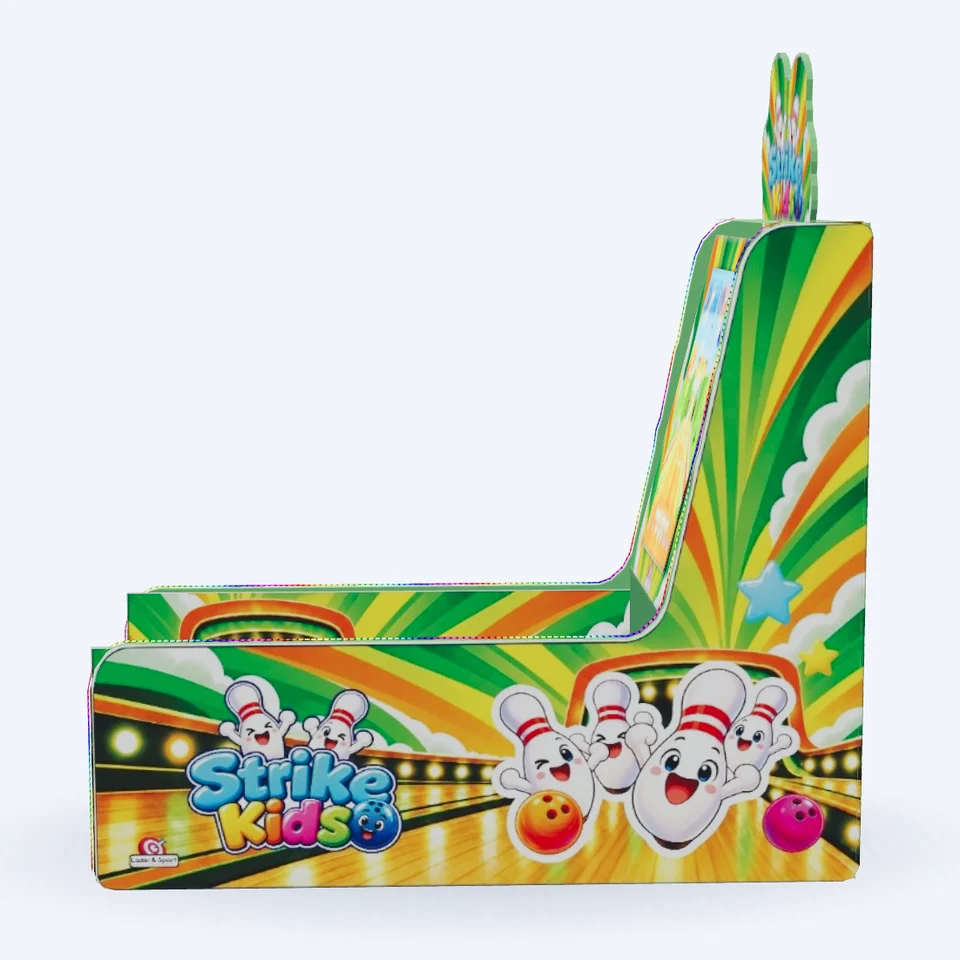
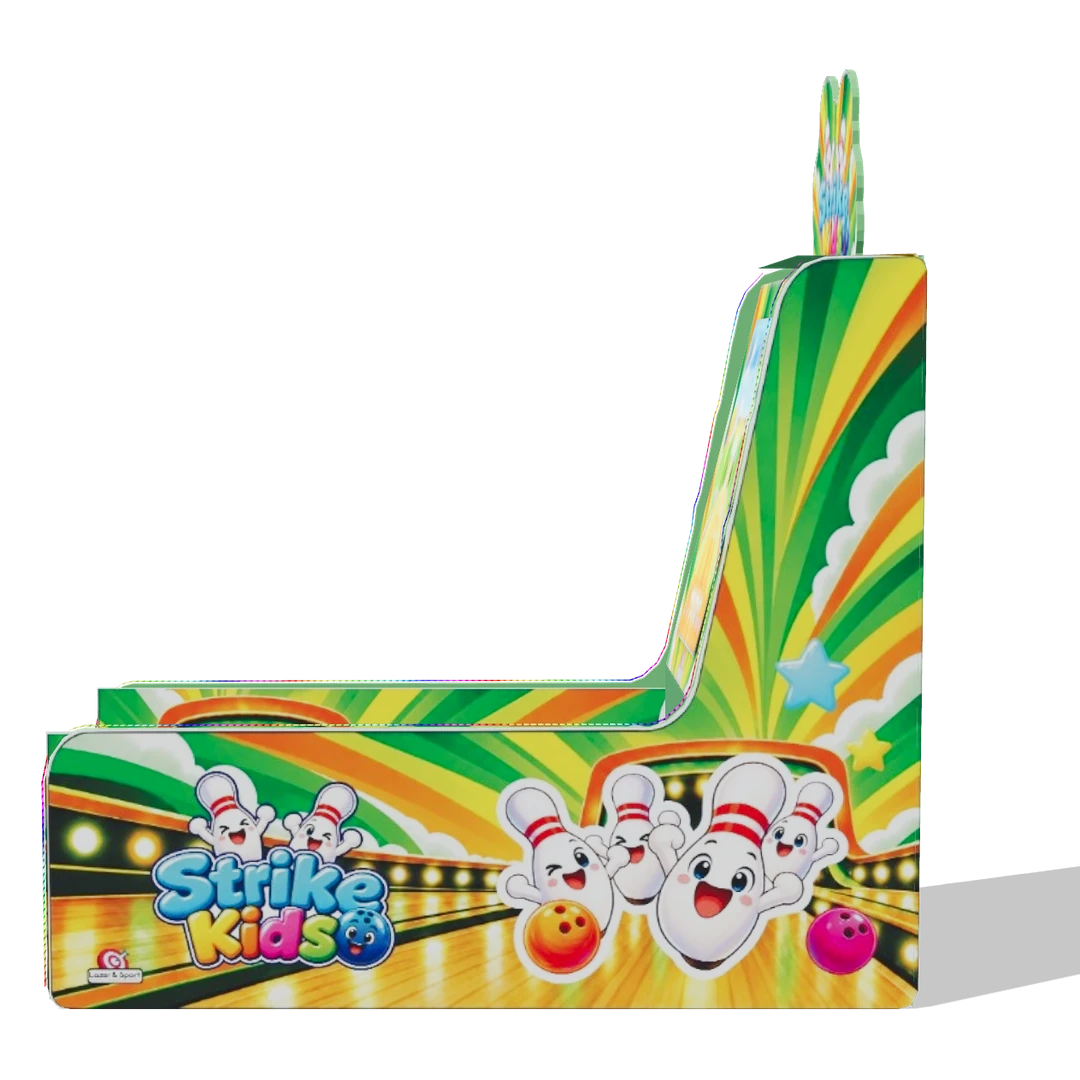
Strike Kids como brinquedo novo, com a foto 2D sem fundo e o 3D, e o site migra sozinho
- O "Strike Kids" entra no catálogo (a 0120): a foto principal é a
  máquina inteira de 3/4, sem fundo (tirada do .glb da própria máquina,
  com a adesivagem real), mais os dois lados e as costas; medidas,
  descrição com a câmera e os 5 sensores de precisão, e o objeto 3D
  ligado. Se o site já o tinha cadastrado (como "Strike Kids Boliche"),
  ele passa a "Strike Kids" com as fotos novas; se foi cadastrado no
  painel, só ganha o 3D. Não duplica.
- O servidor aplica, ao subir no Render e antes de abrir a porta, as
  migrações que faltarem (gunicorn.conf.py). O código novo chegava ao ar
  antes do banco: a Arena deu 500 sem a tabela dos objetos 3D, e o
  cadastro do Strike Kids, feito por migração, não acontecia. Se uma
  migração falhar, o site sobe assim mesmo e o motivo vai para o log.
  AUTO_MIGRATE=0 desliga.

Claude-Session: https://claude.ai/code/session_01BdLQMKFKjxTHdFwtnUJngg

diff --git a/core/tests_objetos_3d.py b/core/tests_objetos_3d.py
@@ -106,7 +106,7 @@ class LeituraDoGlbTests(TestCase):
 class LigacaoTests(TestCase):
     def test_acha_pelo_nome_e_liga_sem_duplicar(self):
         Brinquedos.objects.create(nome_brinquedo="Air Game", descricao="x", avaliacao=5)
-        boliche = Brinquedos.objects.create(nome_brinquedo="Boliche Kids (Strike)", descricao="x", avaliacao=5)
+        boliche = Brinquedos.objects.create(nome_brinquedo="Boliche Strike Kids Premium", descricao="x", avaliacao=5)
         self.assertEqual(achar_no_catalogo("strike-kids", Brinquedos), boliche)
         ligar_objeto_3d("strike-kids", boliche, ObjetoTresD)
         ligar_objeto_3d("strike-kids", boliche, ObjetoTresD)
@@ -155,7 +155,7 @@ class CadastroDoStrikeKidsTests(TestCase):
                 self.rodar("postgresql")
                 self.rodar("postgresql")  # de novo: não duplica
         strike = Brinquedos.objects.get()
-        self.assertEqual(strike.nome_brinquedo, "Strike Kids Boliche")
+        self.assertEqual(strike.nome_brinquedo, "Strike Kids")
         self.assertEqual(strike.imagens_brinquedo.count(), 4)
         self.assertEqual(strike.objeto_3d.codigo, "strike-kids")
         self.assertEqual(strike.objeto_3d.medidas, [2.07, 0.74, 1.91])
@@ -171,10 +171,119 @@ class CadastroDoStrikeKidsTests(TestCase):
         self.assertEqual(list(ObjetoTresD.objects.all()), [enviado])
 
     def test_ja_no_catalogo_so_liga(self):
-        boliche = Brinquedos.objects.create(nome_brinquedo="Boliche Kids", descricao="x", avaliacao=5)
+        boliche = Brinquedos.objects.create(nome_brinquedo="Strike Kids Premium", descricao="x", avaliacao=5)
         self.rodar("postgresql")
         self.assertEqual(Brinquedos.objects.count(), 1)
         self.assertEqual(boliche.objeto_3d.codigo, "strike-kids")
+
+
+class StrikeKidsBrinquedoNovoTests(TestCase):
+    """A 0120: o Strike Kids no catálogo, com a foto 2D sem fundo e o objeto 3D."""
+
+    def setUp(self):
+        from .models import CategoriasBrinquedos, ImagemBrinquedo
+
+        CategoriasBrinquedos.objects.create(nome_categoria="Eletrônicos", imagem_categoria="categorias/e.png")
+        self.pasta = tempfile.TemporaryDirectory()
+        self.addCleanup(self.pasta.cleanup)
+        disco = FileSystemStorage(location=self.pasta.name)
+        for patch in (
+            mock.patch.object(ImagemBrinquedo._meta.get_field("imagem"), "storage", disco),
+            mock.patch.object(Brinquedos._meta.get_field("imagem_brinquedo"), "storage", disco),
+        ):
+            patch.start()
+            self.addCleanup(patch.stop)
+
+    def rodar(self, vendor="postgresql"):
+        from django.apps import apps
+
+        from .cadastro_modelos import strike_kids_no_catalogo
+
+        editor = mock.Mock()
+        editor.connection.vendor = vendor
+        return strike_kids_no_catalogo(apps, editor, avisar=lambda *a: None)
+
+    def test_cadastra_com_a_foto_sem_fundo_e_o_3d(self):
+        self.rodar()
+        self.rodar()  # de novo: não duplica
+        strike = Brinquedos.objects.get()
+        self.assertEqual(strike.nome_brinquedo, "Strike Kids")
+        fotos = list(strike.imagens_brinquedo.order_by("ordem"))
+        self.assertEqual([f.tipo for f in fotos], ["perfil", "lado_direito", "lado_esquerdo", "verso"])
+        self.assertIn("strike-kids-foto", fotos[0].imagem.name)
+        self.assertIn("strike-kids-foto", strike.imagem_brinquedo.name)
+        self.assertEqual(strike.objeto_3d.codigo, "strike-kids")
+        self.assertIn("câmera", strike.descricao)
+        self.assertIn("5 sensores", strike.descricao)
+
+    def test_o_que_o_site_cadastrou_antes_vira_strike_kids_com_as_fotos_novas(self):
+        antigo = Brinquedos.objects.create(
+            nome_brinquedo="Strike Kids Boliche", descricao="x", avaliacao=5,
+            imagem_brinquedo="imagens_brinquedos/strike-kids-frente.webp",
+        )
+        self.rodar()
+        antigo.refresh_from_db()
+        self.assertEqual(Brinquedos.objects.count(), 1)
+        self.assertEqual(antigo.nome_brinquedo, "Strike Kids")
+        self.assertIn("strike-kids-foto", antigo.imagem_brinquedo.name)
+        self.assertEqual(antigo.imagens_brinquedo.count(), 4)
+
+    def test_o_do_painel_fica_como_esta_e_ganha_o_3d(self):
+        meu = Brinquedos.objects.create(
+            nome_brinquedo="Strike Kids Turbo", descricao="minha", avaliacao=5, imagem_brinquedo="imagens_brinquedos/minha.webp",
+        )
+        self.rodar()
+        meu.refresh_from_db()
+        self.assertEqual((meu.nome_brinquedo, meu.descricao, meu.imagem_brinquedo.name), ("Strike Kids Turbo", "minha", "imagens_brinquedos/minha.webp"))
+        self.assertEqual(meu.objeto_3d.codigo, "strike-kids")
+        self.assertEqual(Brinquedos.objects.count(), 1)
+
+    def test_nos_testes_sqlite_nao_faz_nada(self):
+        self.assertIsNone(self.rodar("sqlite"))
+        self.assertFalse(Brinquedos.objects.exists())
+
+    def test_a_foto_principal_tem_fundo_transparente(self):
+        from PIL import Image
+
+        foto = Image.open(finders.find("site/arena/modelos/strike-kids/foto.webp"))
+        self.assertEqual(foto.mode, "RGBA")
+        self.assertEqual(foto.getpixel((2, 2))[3], 0)  # o canto: sem fundo
+
+
+class MigrarAoSubirTests(TestCase):
+    """O gunicorn aplica as migrações que faltarem ao subir (no Render)."""
+
+    def carregar(self):
+        import importlib.util
+        from pathlib import Path
+
+        caminho = Path(__file__).resolve().parent.parent / "gunicorn.conf.py"
+        spec = importlib.util.spec_from_file_location("gunicorn_conf_teste", caminho)
+        modulo = importlib.util.module_from_spec(spec)
+        spec.loader.exec_module(modulo)
+        return modulo
+
+    def test_no_render_migra_e_fora_dele_nao(self):
+        conf = self.carregar()
+        servidor = mock.Mock()
+        with mock.patch("django.core.management.call_command") as migrar:
+            with mock.patch.dict("os.environ", {"RENDER": "true", "AUTO_MIGRATE": ""}):
+                conf.on_starting(servidor)
+            migrar.assert_called_once_with("migrate", interactive=False, verbosity=1)
+            migrar.reset_mock()
+            with mock.patch.dict("os.environ", {"RENDER": "true", "AUTO_MIGRATE": "0"}):
+                conf.on_starting(servidor)
+            with mock.patch.dict("os.environ", {"RENDER": "", "AUTO_MIGRATE": ""}):
+                conf.on_starting(servidor)
+            migrar.assert_not_called()
+
+    def test_falha_na_migracao_nao_derruba_o_site(self):
+        conf = self.carregar()
+        servidor = mock.Mock()
+        with mock.patch("django.core.management.call_command", side_effect=RuntimeError("banco fora")), \
+                mock.patch.dict("os.environ", {"RENDER": "true", "AUTO_MIGRATE": ""}):
+            conf.on_starting(servidor)  # não levanta
+        self.assertIn("banco fora", servidor.log.error.call_args[0][0])
 
 
 class NaArenaTests(TestCase):
@@ -202,11 +311,11 @@ class NaArenaTests(TestCase):
     def test_aparece_na_arena_antes_do_catalogo(self):
         self.strike.delete()
         maquinas = self.client.get(reverse("arena")).context["arena_dados"]["maquinas"]
-        dados = next(m for m in maquinas if m["nome"] == "Strike Kids Boliche")
+        dados = next(m for m in maquinas if m["nome"] == "Strike Kids")
         self.assertEqual(dados["id"], "modelo-strike-kids")
         self.assertIn("strike-kids.glb", dados["modelo"])
         self.assertEqual((dados["grupo"], dados["jogo"]), ("jogos", "strike-kids"))
-        self.assertIn("strike-kids/frente.webp", dados["capa"])
+        self.assertIn("strike-kids/foto.webp", dados["capa"])
 
     def test_tirado_no_painel_nao_volta_pelo_nome(self):
         objeto = ligar_objeto_3d("strike-kids", self.strike, ObjetoTresD)

diff --git a/core/cadastro_modelos.py b/core/cadastro_modelos.py
@@ -84,23 +84,26 @@ CADASTROS = {
         "evitar": ("kids",),
     },
     "strike-kids": {
-        "nome": "Strike Kids Boliche",
-        # o brinquedo do catálogo que é esta máquina (qualquer um destes no nome)
-        "nomes": ("strike kids", "boliche kids"),
+        "nome": "Strike Kids",
+        # o brinquedo do catálogo que é esta máquina
+        "nomes": ("strike kids",),
         "pasta": MODELOS / "strike-kids",
         "objeto_3d": "site/arena/modelos/strike-kids.glb",
         "descricao": (
             "Strike Kids, o boliche infantil da Lazer & Sport: pista de 1,4 m com bolsão para as bolas, "
-            "tela vertical com o jogo Strike Kids, testeira e laterais adesivadas com os pinos sorridentes "
-            "e LEDs nas laterais. Medidas aproximadas: 2,07 m de altura, 0,74 m de largura e 1,91 m de "
-            "comprimento. Cores e adesivagem podem ser ajustadas no pedido."
+            "tela vertical com o jogo Strike Kids, câmera que tira a foto do jogador para o ranking e 5 "
+            "sensores de precisão que leem cada jogada. Testeira e laterais adesivadas com os pinos "
+            "sorridentes e LEDs nas laterais. Medidas aproximadas: 2,07 m de altura, 0,74 m de largura e "
+            "1,91 m de comprimento. Cores e adesivagem podem ser ajustadas no pedido."
         ),
         "medidas": ("2.07", "0.74", "1.91"),
+        # a foto principal: a máquina inteira, de 3/4 e sem fundo (do .glb da
+        # própria máquina); as outras, os lados e as costas
         "fotos": (
-            ("frente.webp", "perfil", "Strike Kids Boliche visto de frente, com a tela e a pista"),
-            ("lado_direito.webp", "lado_direito", "Strike Kids Boliche pelo lado direito, com a arte dos pinos"),
-            ("lado_esquerdo.webp", "lado_esquerdo", "Strike Kids Boliche pelo lado esquerdo, com a arte dos pinos"),
-            ("verso.webp", "verso", "Strike Kids Boliche visto por trás"),
+            ("foto.webp", "perfil", "Strike Kids, o boliche infantil, com a tela, a pista e a arte dos pinos"),
+            ("lado_direito.webp", "lado_direito", "Strike Kids pelo lado direito, com a arte dos pinos"),
+            ("lado_esquerdo.webp", "lado_esquerdo", "Strike Kids pelo lado esquerdo, com a arte dos pinos"),
+            ("verso.webp", "verso", "Strike Kids visto por trás"),
         ),
         "categorias": ("boliche", "jogos", "eletronic"),
         "evitar": (),
@@ -220,6 +223,54 @@ def migracao(chave):
                   f"Rode: python manage.py cadastrar_modelo_3d {chave}")
 
     return cadastrar_no_deploy
+
+
+def strike_kids_no_catalogo(apps, schema_editor, avisar=print):
+    """O Strike Kids como brinquedo do catálogo, com a foto 2D e o objeto 3D (a 0120).
+
+    * Não há brinquedo com "Strike Kids" no nome: cadastra o "Strike Kids",
+      com as quatro fotos (a principal sem fundo) e o objeto 3D ligado.
+    * Há um que o próprio site cadastrou antes (a 0117, como "Strike Kids
+      Boliche", com fotos tiradas do 3D): passa a se chamar "Strike Kids" e
+      ganha as fotos novas.
+    * Há um que alguém cadastrou no painel: fica como está, só ganha o 3D.
+
+    Só no banco de verdade (o PostgreSQL, no Render ou no computador): o
+    SQLite é o dos testes. Se a subida das fotos falhar, o resto segue e o
+    `cadastrar_modelo_3d strike-kids` refaz.
+    """
+    from django.conf import settings
+
+    real = getattr(settings, "IS_RENDER", False) or schema_editor.connection.vendor == "postgresql"
+    if not real:
+        return None
+    Brinquedos = apps.get_model("core", "Brinquedos")
+    dados = CADASTROS["strike-kids"]
+    existente = achar_no_catalogo("strike-kids", Brinquedos)
+    try:
+        with transaction.atomic():
+            if existente is not None and "strike-kids-" in (existente.imagem_brinquedo.name or ""):
+                # o que o próprio site cadastrou: o nome e as fotos novas
+                if existente.nome_brinquedo != dados["nome"]:
+                    existente.nome_brinquedo = dados["nome"]
+                    existente.descricao = dados["descricao"]
+                    existente.save(update_fields=["nome_brinquedo", "descricao"])
+                brinquedo, _ = cadastrar(
+                    "strike-kids", Brinquedos, apps.get_model("core", "CategoriasBrinquedos"),
+                    apps.get_model("core", "ImagemBrinquedo"), refazer_fotos=True, avisar=avisar,
+                )
+            elif existente is not None:
+                brinquedo = existente
+            else:
+                brinquedo, _ = cadastrar(
+                    "strike-kids", Brinquedos, apps.get_model("core", "CategoriasBrinquedos"),
+                    apps.get_model("core", "ImagemBrinquedo"), avisar=avisar,
+                )
+            ligar_objeto_3d("strike-kids", brinquedo, apps.get_model("core", "ObjetoTresD"))
+    except Exception as erro:  # o deploy segue; o comando refaz depois
+        avisar(f"O Strike Kids não foi cadastrado agora ({erro}). Rode: python manage.py cadastrar_modelo_3d strike-kids")
+        return None
+    return brinquedo
 
 
 def migracao_objetos_3d(*chaves, cadastrar_no_banco_real=False):

diff --git a/gunicorn.conf.py b/gunicorn.conf.py
@@ -86,3 +86,49 @@ loglevel = os.getenv("WEB_LOG_LEVEL", "info")
 access_log_format = (
     '%(h)s "%(r)s" %(s)s %(b)s %(M)sms "%(a)s"'
 )
+
+
+# ----------------------------------------------------------------------
+# AS MIGRAÇÕES QUE FALTAREM, APLICADAS AO SUBIR
+#
+# O código novo chegava ao ar antes de o banco ter as tabelas e os dados
+# dele: a Arena 3D dava erro 500 até alguém rodar o `migrate` à mão (a
+# tabela dos objetos 3D não existia), e o Strike Kids, cadastrado por uma
+# migração, não aparecia no catálogo. Agora o servidor aplica, ao subir e
+# antes de abrir a porta, as migrações que faltarem. Se alguma falhar, o
+# site sobe assim mesmo (as telas aguentam o banco sem a tabela nova) e o
+# motivo fica no log do deploy.
+#
+# Liga sozinho no Render (variável RENDER=true); AUTO_MIGRATE=0 desliga,
+# AUTO_MIGRATE=1 liga em qualquer lugar. Roda no processo principal, uma
+# vez por instância, e fecha as conexões antes de os workers nascerem.
+# ----------------------------------------------------------------------
+def _migrar_ao_subir():
+    escolha = os.getenv("AUTO_MIGRATE", "").strip().lower()
+    if escolha in ("0", "false", "nao", "não", "off"):
+        return False
+    if escolha not in ("1", "true", "sim", "on") and os.getenv("RENDER", "").strip().lower() != "true":
+        return False
+    return True
+
+
+def on_starting(server):
+    if not _migrar_ao_subir():
+        return
+    try:
+        os.environ.setdefault("DJANGO_SETTINGS_MODULE", "lazer.settings")
+        import django
+
+        django.setup()
+        from django.core.management import call_command
+        from django.db import connections
+
+        try:
+            server.log.info("Aplicando as migrações que faltarem...")
+            call_command("migrate", interactive=False, verbosity=1)
+            server.log.info("Migrações em dia.")
+        finally:
+            # nada de conexão aberta herdada pelos workers
+            connections.close_all()
+    except Exception as erro:  # o site sobe mesmo assim
+        server.log.error(f"As migrações não foram aplicadas ao subir: {erro!r}")

diff --git a/core/migrations/0120_strike_kids_brinquedo_novo.py b/core/migrations/0120_strike_kids_brinquedo_novo.py
@@ -1,0 +1,28 @@
+"""O Strike Kids como brinquedo do catálogo, com a foto 2D sem fundo e o objeto 3D.
+
+Cadastra o "Strike Kids" (o boliche infantil da casa) com a foto principal
+sem fundo e as dos lados e das costas, as medidas, a descrição (câmera e 5
+sensores de precisão) e o objeto 3D ligado. Se o site já o tinha
+cadastrado antes (a 0117, como "Strike Kids Boliche"), ele passa a se
+chamar "Strike Kids" e ganha as fotos novas; se alguém o cadastrou no
+painel, só ganha o 3D. Ver `core/cadastro_modelos.strike_kids_no_catalogo`.
+"""
+
+from django.db import migrations
+
+from core.cadastro_modelos import strike_kids_no_catalogo
+
+
+def cadastrar(apps, schema_editor):
+    strike_kids_no_catalogo(apps, schema_editor)
+
+
+class Migration(migrations.Migration):
+
+    dependencies = [
+        ("core", "0119_tira_objetos_3d_desenhados"),
+    ]
+
+    operations = [
+        migrations.RunPython(cadastrar, migrations.RunPython.noop),
+    ]

diff --git a/core/arena.py b/core/arena.py
@@ -526,7 +526,7 @@ MODELOS_3D = (
         # cores são a arte em outros tons, ver cores3d.js); é o primeiro
         # objeto 3D ligado também pelo cadastro (ObjetoTresD)
         "id": "strike-kids",
-        "titulo": "Strike Kids Boliche",
+        "titulo": "Strike Kids",
         "nomes": ("Strike Kids", "Boliche Kids"),
         "arquivo": "site/arena/modelos/strike-kids.glb",
         "medidas": (2.07, 0.74, 1.91),
@@ -534,7 +534,7 @@ MODELOS_3D = (
         "jogo": "strike-kids",
         "pasta": "site/arena/modelos/strike-kids/",
         "fotos": (
-            ("perfil", "frente.webp"), ("lado_direito", "lado_direito.webp"),
+            ("perfil", "foto.webp"), ("lado_direito", "lado_direito.webp"),
             ("lado_esquerdo", "lado_esquerdo.webp"), ("verso", "verso.webp"),
         ),
         "medidas_texto": "2,07 m × 0,74 m × 1,91 m",

diff --git a/core/tests_brinquedao_modelo_2.py b/core/tests_brinquedao_modelo_2.py
@@ -72,7 +72,7 @@ class ObjetoNaArenaTests(TestCase):
         nomes = [b["nome"] for b in resposta.context["brinquedos_arena"]]
         self.assertEqual(nomes[0], "Air Game Hockey")
         self.assertIn("Brinquedão Modelo 2", nomes)
-        self.assertIn("Strike Kids Boliche", nomes)
+        self.assertIn("Strike Kids", nomes)
         self.assertContains(resposta, 'data-vitrine3d data-modelo="/static/site/arena/modelos/brinquedao-modelo-2.glb')
 
     def test_cadastrado_toma_o_lugar_sem_duplicar(self):
